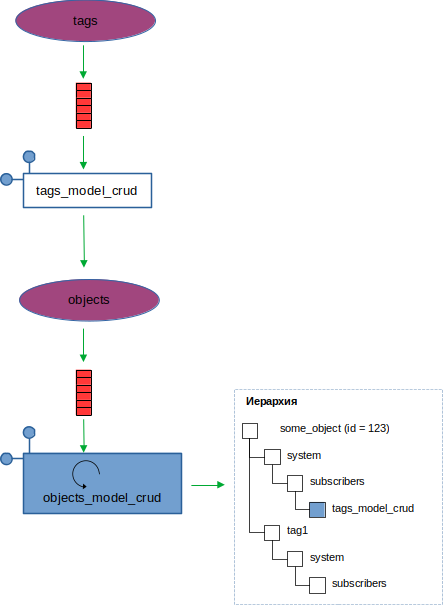
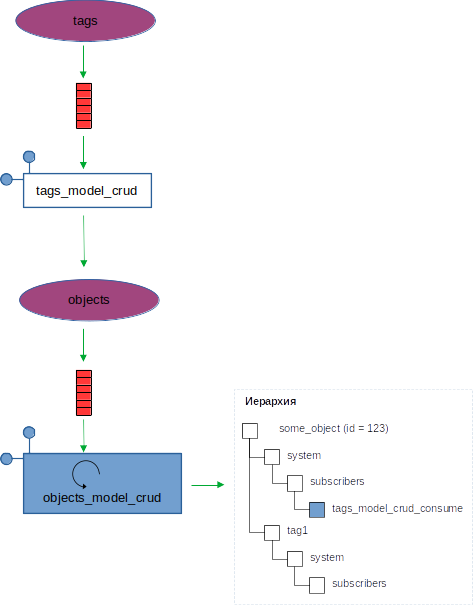
#66 in progress

diff --git a/docs/source/common_classes.rst b/docs/source/common_classes.rst
@@ -59,12 +59,6 @@
 
 Модуль ``model_crud_svc``
 """""""""""""""""""""""""
-Модуль содержит базовый класс сервиса, реализующего функциональность работы с
-иерархией для какой-либо сущности (создание, обновление, поиск, удаление
-узлов).
-Сообщения сервиса:
-
-.. image:: pics/mes_entity_model_crud.png
 
 .. automodule:: src.common.model_crud_svc
    :members: